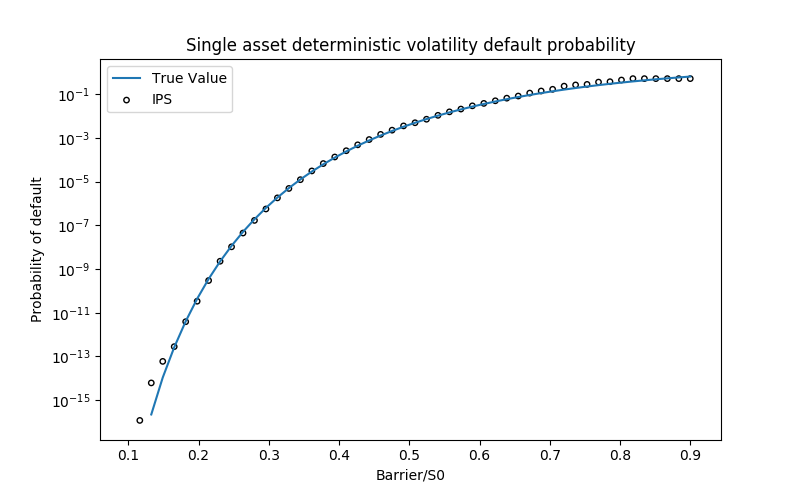
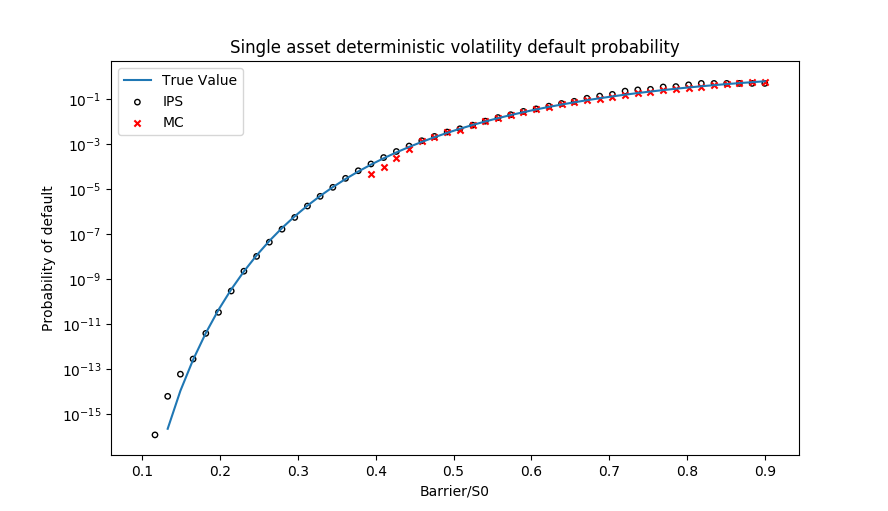
Changes for simple MC

diff --git a/IPS/main.py b/IPS/main.py
@@ -23,6 +23,14 @@ def runIPS(X0, params, n, alpha, barriers, Afn, Bfn, Cfn, tqdmParams):
     return Xn, Wn, norm_consts, default_prob, defcounts
 
 
+def runMC(X0, params, n, alpha, barriers, Afn, Bfn, Cfn, tqdmParams):
+    Xn = X0.copy()
+    Wn = X0.copy()
+    Xn, _ = IPS.mutation(Xn, params, Afn, Bfn, Cfn, tqdmParams)
+    default_prob, defcounts = IPS.MCestimator(Xn, barriers)
+    return Xn, None, None, default_prob, defcounts
+
+
 if __name__ == '__main__':
     parser = argparse.ArgumentParser(
         description='IPS sampling rare credit portfolio loss')
@@ -50,6 +58,8 @@ if __name__ == '__main__':
                         help='Barrier price for all assets (Default: %(default)s)')
     parser.add_argument('--deterministicvol', '-DV', action='store_true',
                         help='set to deterministic volatility only')
+    parser.add_argument('--mconly', '-MC', action='store_true',
+                        help='Use MC sampling only')
     parser.add_argument('--results', type=str, default='results',
                         help='Result directory to save to in results. (Default: % (default)s)')
     parser.add_argument('--jobs', type=int, default=4,
@@ -75,6 +85,12 @@ if __name__ == '__main__':
     Dt = T / n
     alpha = args.alpha
     barriers = args.barrier * np.ones(args.nfirms)
+    runFn = runIPS
+    if args.mconly:
+        runFn = runMC
+        alpha = [1]
+        Dt = T
+        n = 1
 
     params = {'Dt': Dt, 'dt': args.mgranularity,
               'sigma0': args.sigma0, 'r': args.rate}
@@ -93,7 +109,9 @@ if __name__ == '__main__':
     defcounts = []
     with Pool(processes=args.jobs) as pool:
         multipleresults = [pool.apply_async(
-            runIPS, (X0, params, n, alpha[i], barriers, Afn, Bfn, Cfn, {'nFn': i, 'noverbose': args.noverbose, 'notebook': args.notebook})) for i in range(len(alpha))]
+            runFn, (X0, params, n, alpha[i], barriers, Afn, Bfn, Cfn,
+                    {'nFn': i, 'noverbose': args.noverbose,
+                     'notebook': args.notebook})) for i in range(len(alpha))]
         for i in range(len(alpha)):
             Xni, Wni, norm_constsi, default_probi, defcountsi = multipleresults[i].get(
             )
@@ -108,10 +126,14 @@ if __name__ == '__main__':
     #pkT = np.mean(np.vstack(default_prob), axis=0)
 
     results = {'args': args, 'params': params, 'alpha': alpha, 'X0': X0, 'Xn': Xn,
-               'Wn': Wn, 'norm_consts': norm_consts, 'default_prob': default_prob, 'pkT': pkT, 'defcounts': defcounts, 'barriers': barriers}
+               'Wn': Wn, 'norm_consts': norm_consts, 'default_prob': default_prob,
+               'pkT': pkT, 'defcounts': defcounts, 'barriers': barriers}
 
-    resultDir = 'np' + str(args.nportfolio) + '_nf' + str(args.nfirms) + '_T' + str(T) + '_ns' + str(n) + '_sp' + str(
-        args.startprice) + '_sv' + str(args.startvol) + '_sigma' + str(args.sigma0) + '_DV' + str(args.deterministicvol) + '_alpha' + str(alpha[0]) + '_' + str(alpha[-1]) + '_' + str(len(alpha))
+    resultDir = 'np' + str(args.nportfolio) + '_nf' + str(args.nfirms) + '_T' \
+                + str(T) + '_ns' + str(n) + '_sp' + str(args.startprice) + '_sv' \
+                + str(args.startvol) + '_sigma' + str(args.sigma0) + '_DV' \
+                + str(args.deterministicvol) + '_MC' + str(args.mconly) + '_alpha' \
+                + str(alpha[0]) + '_' + str(alpha[-1]) + '_' + str(len(alpha))
     resultDir = args.results + os.sep + resultDir
     os.makedirs(resultDir, exist_ok=True)
 

diff --git a/IPS/IPS.py b/IPS/IPS.py
@@ -21,16 +21,18 @@ def potential(Xp, Wp, alpha):
     return G
 
 # Xp, Wp - matrices of size numPortfolios x (2N+1). Current state and history.
+# alpha - chosen alpha paramter
+# potentialfn - function which returns the potential
 # Returns:
 # Xnew - matrix of size numPortfolios x (2N+1). Selected new values
 # norm_const - scalar normalization constant at this selection stage.
 # Needs to be accumulated.
 
 
-def selection(Xp, Wp, alpha):
+def selection(Xp, Wp, alpha, potentialfn=potential):
     numPortfolios = Xp.shape[0]
     n = int((Xp.shape[1] - 1) / 2)
-    G = potential(Xp, Wp, alpha)
+    G = potentialfn(Xp, Wp, alpha)
     norm_const = G.sum() / numPortfolios
     probabilities = G / G.sum()
     sampled_indices = rv_discrete(
@@ -114,4 +116,19 @@ def estimator(X0, Xn,  Wn, barrier, alpha, norm_consts):
         ndef_i = (ndefaults == i)
         defcounts[i] = ndef_i.sum()
         p[i] = np.sum(G * ndef_i) * normalization / M
+    return p, defcounts
+
+# X0 - numPortfolios x N matrix of initial state.
+# barrier - numpy array of size N for barrier prices of assets
+
+
+def MCestimator(Xn, barrier):
+    M = np.shape(Xn)[0]  # Number of portfolios
+    N = int((np.shape(Xn)[1] - 1) / 2)  # Number of assets
+    ndefaults = numDefaults(Xn[:, N + 1:], barrier)
+    defcounts = np.zeros(N + 1)
+    for i in range(N + 1):
+        ndef_i = (ndefaults == i)
+        defcounts[i] = ndef_i.sum()
+    p = defcounts / defcounts.sum()
     return p, defcounts

diff --git a/report/resultsIPS.tex b/report/resultsIPS.tex
@@ -78,7 +78,8 @@ accurately estimates the default probabilities for a good range of
 $\text{barrier}/S_0$ value. It even manages to trace default probabilities of the 
 order of $10^{-14}$ which is quite remarkable. This indicates that the IPS
 algorithm is quite effective in sampling these rare events and is doing so quite
-accurately.
+accurately. In the same figure we can see that the MC algorithm is unable to
+estimate low probability defaults just as expected.
 
 \begin{figure}
 	\centering
